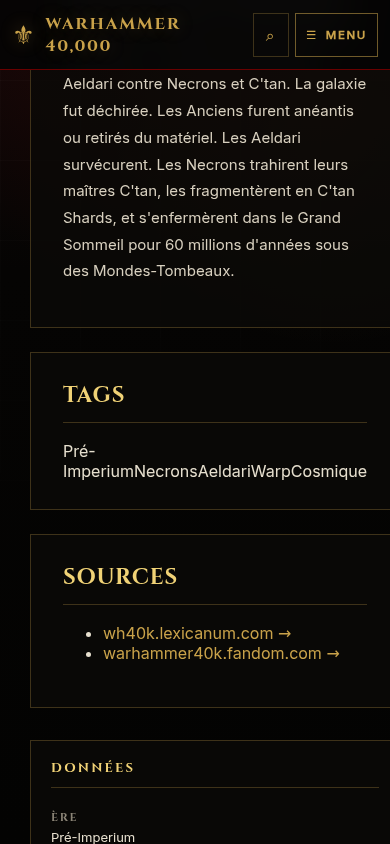
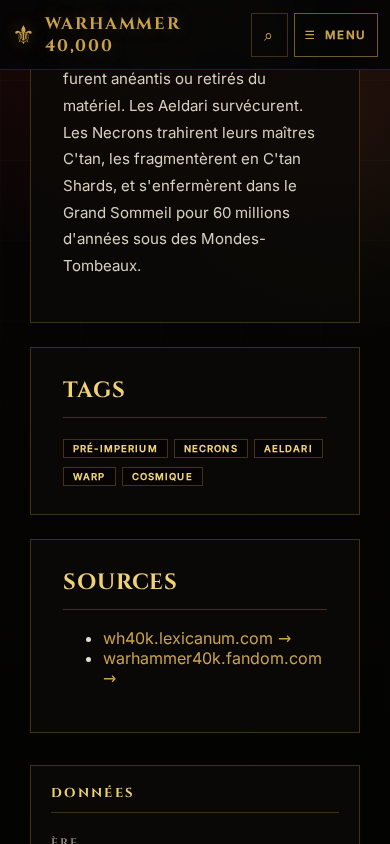
fix(L211): fiche d'un événement de la Chronologie, chaque tag est une pastille distincte (ul/li)
Les libellés de la section Tags s'affichaient collés (« Pré-ImperiumNecronsAeldari… »)
faute de style : liste sémantique ul.tags aria-label « Tags », pastilles du style de la
liste (.t-tag), test Vitest, instantané des styles de composants, capture Nouveautés
refaite à 390 px.

diff --git a/frontend/src/app/features/lore-timeline/lore-timeline-libelles-l211.spec.ts b/frontend/src/app/features/lore-timeline/lore-timeline-libelles-l211.spec.ts
@@ -63,6 +63,39 @@ describe('Chronologie : libellés et barre d\'ères (L211)', () => {
     expect(tags).toEqual(['pre-imperium', 'cosmic', 'necrons'].map(tagLabel));
   });
 
+  it('R1 — la fiche rend chaque tag en pastille distincte d\'une liste (ul/li), pas des libellés collés sans séparateur', async () => {
+    await setupTestBed([TimelineEventDetailComponent], [
+      provideRouter([]),
+      { provide: ActivatedRoute, useValue: { paramMap: of(convertToParamMap({ id: 'e1' })) } },
+      { provide: WarhammerService, useValue: fakeWarhammerService({ getTimelineEvent: () => of(evenement) }) },
+    ]);
+    const f = TestBed.createComponent(TimelineEventDetailComponent);
+    f.detectChanges(); await f.whenStable(); f.detectChanges();
+    const racine = f.nativeElement as HTMLElement;
+    const liste = racine.querySelector('ul.tags')!;
+    expect(liste, 'une liste sémantique <ul class="tags">').not.toBeNull();
+    expect(liste.getAttribute('aria-label')).toBe('Tags');
+    const items = Array.from(liste.querySelectorAll(':scope > li'));
+    expect(items).toHaveLength(evenement.tags.length);
+    expect(items.every(li => li.querySelectorAll('.tag').length === 1)).toBe(true);
+    const libelles = evenement.tags.map(tagLabel);
+    expect(items.map(li => li.textContent!.trim())).toEqual(libelles);
+    // le DOM n'a pas de texte nu à concaténer : un seul libellé par élément, jamais « Pré-ImperiumCosmiqueNecrons » dans un seul nœud
+    expect(items.every(li => libelles.every(l => l === li.textContent!.trim() || !li.textContent!.includes(l)))).toBe(true);
+  });
+
+  it('R1 — la pastille de la fiche a le style de celle de la liste (cadre, remplissage, majuscules, liste sans puces)', () => {
+    const css = postcss.parse(sass.compile(resolve(__dirname, '../ship-detail/ship-detail.component.scss')).css);
+    const decl = (sel: string, prop: string) => { let v = ''; css.walkRules(r => { if (r.selectors.includes(sel)) r.walkDecls(prop, d => { v = d.value; }); }); return v; };
+    expect(decl('.tags .tag', 'border')).toMatch(/1px solid/);
+    expect(decl('.tags .tag', 'padding')).not.toBe('');
+    expect(decl('.tags .tag', 'text-transform')).toBe('uppercase');
+    expect(decl('.tags', 'display')).toBe('flex');
+    expect(decl('.tags', 'flex-wrap')).toBe('wrap');
+    expect(decl('.tags', 'list-style')).toBe('none');
+    expect(decl('.tags', 'gap')).not.toBe('');
+  });
+
   it('R2 — jusqu\'à 760 px la barre d\'ères reste sur une ligne défilante (pas de retour à la ligne)', () => {
     const m = '(max-width: 760px)';
     expect(regle('.era-nav', m, 'flex-wrap')).toBe('nowrap');

diff --git a/frontend/src/app/features/ship-detail/ship-detail.component.scss b/frontend/src/app/features/ship-detail/ship-detail.component.scss
@@ -142,6 +142,27 @@
 .lead { font-size: 17px; font-style: italic; color: #ebe2ce; border-left: 3px solid var(--gold); padding-left: 16px; }
 .bible-text { white-space: pre-line; }
 
+/* Tags de la fiche chronologie (L211) : une pastille par tag, même style que .t-tag de la liste (lore-timeline). */
+.tags {
+  display: flex;
+  flex-wrap: wrap;
+  gap: 6px;
+  list-style: none;
+  margin: 0;
+  padding: 0;
+}
+.tags .tag {
+  display: inline-block;
+  padding: 3px 9px;
+  background: rgba(5, 4, 3, 0.78);
+  border: 1px solid rgba(201, 162, 74, 0.3);
+  color: var(--gold-bright);
+  font-size: 9.5px;
+  letter-spacing: 0.12em;
+  text-transform: uppercase;
+  font-weight: 700;
+}
+
 .specs-list {
   list-style: none;
   margin: 0;

diff --git a/frontend/src/app/features/timeline-event-detail/timeline-event-detail.component.ts b/frontend/src/app/features/timeline-event-detail/timeline-event-detail.component.ts
@@ -47,11 +47,11 @@ const ERA_LABEL: Record<TimelineEra, string> = {
           @if (e.tags.length) {
             <article class="panel">
               <h2>Tags</h2>
-              <div class="tags">
+              <ul class="tags" aria-label="Tags">
                 @for (t of e.tags; track t) {
-                  <span class="tag">{{ tagLabel(t) }}</span>
+                  <li><span class="tag">{{ tagLabel(t) }}</span></li>
                 }
-              </div>
+              </ul>
             </article>
           }
 

diff --git a/docs/nouveautes/2026-10-28-chronologie-etiquettes-lisibles-et-barre-des-eres-plus-discr.md b/docs/nouveautes/2026-10-28-chronologie-etiquettes-lisibles-et-barre-des-eres-plus-discr.md
@@ -5,7 +5,7 @@ created: 2026-10-28T20:52+01:00
 lots: [L211]
 captures:
   - { file: captures/L211-chronologie-liste-390.png, alt: "Liste de la chronologie au téléphone (390 px) : la barre des ères tient sur une seule ligne qui défile, les étiquettes des cartes sont lisibles (« Pré-Imperium », « Necrons »)" }
-  - { file: captures/L211-chronologie-fiche-390.png, alt: "Fiche d'un événement au téléphone (390 px) : les tags sont écrits en toutes lettres" }
+  - { file: captures/L211-chronologie-fiche-390.png, alt: "Fiche d'un événement au téléphone (390 px) : chaque tag est une pastille distincte, écrite en toutes lettres" }
 # une capture peut dire ce qu'elle montre : captures: [{ file: captures/x.png, alt: "texte alternatif" }]
 # nocapture: raison, quand une capture n'a pas de sens
 ---
